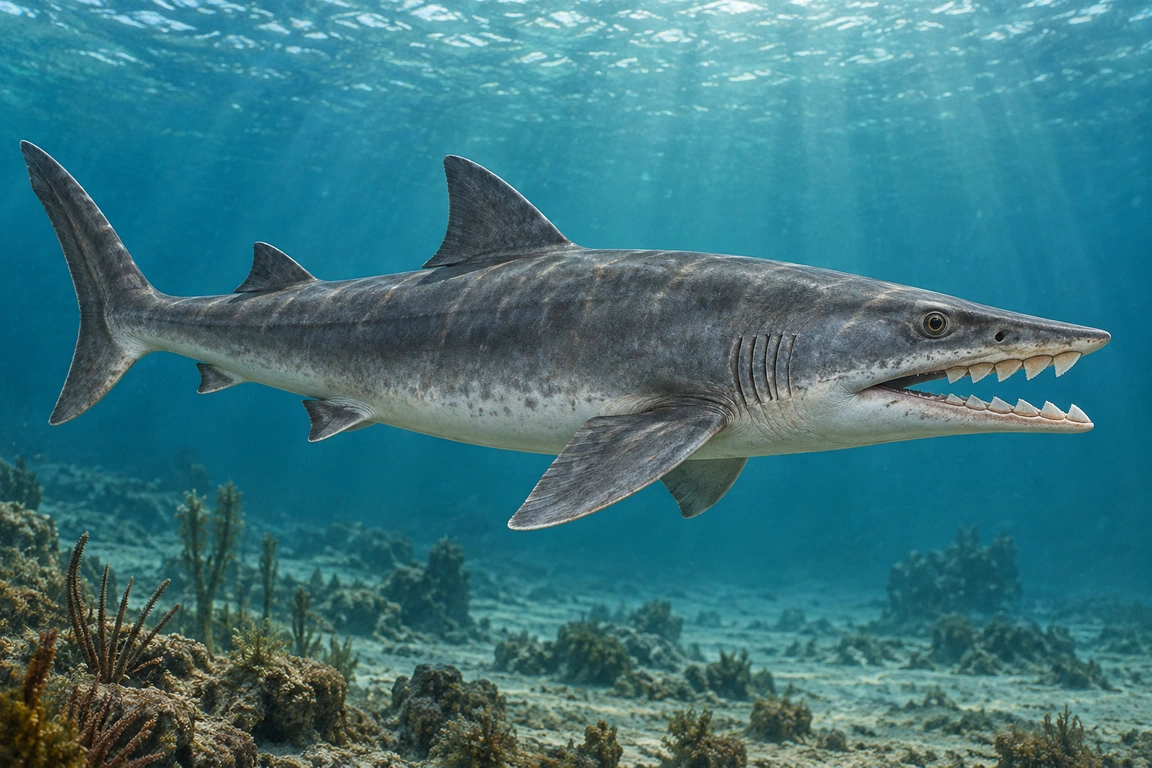
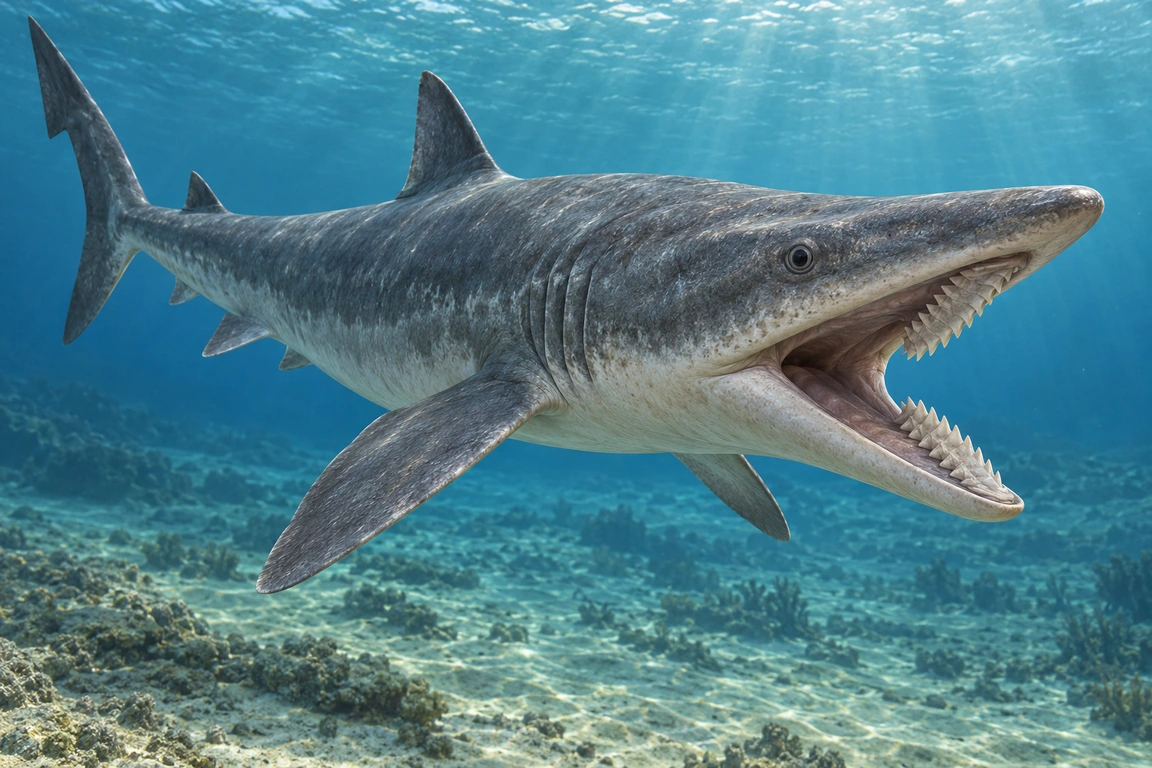
Fix approved crop framing and add median-blade Edestus candidate; build 1000007

diff --git a/app.js b/app.js
@@ -541,12 +541,20 @@
     });
     $('favorites-count').textContent = state.favorites.size;
   }
+  // Preserve the complete approved crops without letterboxing in 3:2 frames.
+  function imageFrameStyle(dino) {
+    const ratios = {
+      'pulmonoscorpius-kirktonensis': '1036 / 752',
+      'arthropleura-armata': '996 / 752'
+    };
+    return ratios[dino.id] ? '--picture-ratio: ' + ratios[dino.id] : '';
+  }
   function renderGallery() {
     const visible = filteredDinosaurs(dinosaurs, state);
     $('gallery').innerHTML = visible.map((dino, index) => {
       const text = copy(dino);
       return `<article class="dino-card">
-          <div class="card-picture"><img class="${atlasImageClass(dino)}" src="${escapeHtml(dino.image.src)}" alt="${escapeHtml(localized(dino.image.alt))}" width="1536" height="1024" ${index > 1 ? 'loading="lazy"' : ''} decoding="async"></div>
+          <div class="card-picture" style="${imageFrameStyle(dino)}"><img class="${atlasImageClass(dino)}" src="${escapeHtml(dino.image.src)}" alt="${escapeHtml(localized(dino.image.alt))}" width="1536" height="1024" ${index > 1 ? 'loading="lazy"' : ''} decoding="async"></div>
           <div class="card-body"><div class="card-title-row"><h3><a class="card-link" id="card-${dino.id}" href="#dinosaurus/${dino.id}">${escapeHtml(text.displayName)}</a></h3>${favoriteButton(dino, 'card-favorite')}</div><p class="scientific-name">${escapeHtml(dino.scientificName)}</p>
           <div class="card-meta"><span class="period-tag">${PERIODS[dino.period]}</span><span class="animal-kind">${CATEGORY_LABELS[categoryOf(dino)]}</span><span>${escapeHtml(text.ageLabel)}</span></div>
           <p class="card-location">${escapeHtml(text.location)}</p><p class="card-summary">${escapeHtml(text.cardSummary)}</p><span class="card-open">Prozkoumat →</span></div>
@@ -735,7 +743,7 @@
     const question = quiz.questions[quiz.index];
     const dino = byId.get(question.answerId);
     $('quiz-content').innerHTML = `<p class="quiz-progress-label">Otázka ${quiz.index + 1} z ${quiz.questions.length} · Bez časového limitu</p><progress class="quiz-progress" max="${quiz.questions.length}" value="${quiz.index}" aria-label="Dokončené otázky"></progress>
-      <div class="quiz-picture"><img data-image-viewer src="${escapeHtml(dino.image.src)}" width="1536" height="1024" alt="Pracovní rekonstrukce pravěkého zvířete. Vyber jeho jméno z možností pod obrázkem.">${imageZoomButton()}</div>
+      <div class="quiz-picture" style="${imageFrameStyle(dino)}"><img data-image-viewer src="${escapeHtml(dino.image.src)}" width="1536" height="1024" alt="Pracovní rekonstrukce pravěkého zvířete. Vyber jeho jméno z možností pod obrázkem.">${imageZoomButton()}</div>
       <button id="quiz-hint" type="button" class="button button-quiet hint-button" aria-expanded="${quiz.hintRevealed}" aria-controls="quiz-hint-text">${quiz.hintRevealed ? 'Skrýt nápovědu' : 'Potřebuji nápovědu'}</button><p id="quiz-hint-text" class="hint-text" ${quiz.hintRevealed ? '' : 'hidden'}>${escapeHtml(copy(dino).quizHint)}</p>
       <div class="quiz-answers" role="group" aria-label="Vyber jméno zvířete">${question.optionIds.map((id, index) => `<button type="button" class="quiz-answer" data-answer="${id}"><span class="answer-letter" aria-hidden="true">${String.fromCharCode(65 + index)}</span><span class="answer-name">${escapeHtml(copy(byId.get(id)).displayName)}</span></button>`).join('')}</div>
       <div class="quiz-feedback" id="quiz-feedback" role="status" aria-live="polite" aria-atomic="true"></div>

diff --git a/style.css b/style.css
@@ -111,7 +111,7 @@ main { min-height: 320px; }
 .card-link::after { content: ''; position: absolute; inset: 0; border-radius: 20px; }
 .card-link:focus-visible { outline: none; }
 .card-link:focus-visible::after { outline: 3px solid var(--accent); outline-offset: -5px; }
-.card-picture { aspect-ratio: 3 / 2; overflow: hidden; background: var(--image-bg); }
+.card-picture { aspect-ratio: var(--picture-ratio, 3 / 2); overflow: hidden; background: var(--image-bg); }
 .card-picture img { width: 100%; height: 100%; object-fit: contain; }
 .card-body { padding: 18px 19px 20px; }
 .card-title-row { display: flex; align-items: flex-start; justify-content: space-between; gap: 12px; margin-bottom: 4px; }
@@ -221,7 +221,7 @@ figcaption { font-size: .76rem; color: var(--muted); margin-top: 9px; }
 .quiz-progress::-webkit-progress-bar { background: var(--soft); }
 .quiz-progress::-webkit-progress-value { background: var(--accent); }
 .quiz-progress::-moz-progress-bar { background: var(--accent); }
-.quiz-picture { position: relative; aspect-ratio: 3 / 2; min-height: 0; border: 1px solid var(--line); border-radius: 20px; overflow: hidden; background: var(--image-bg); margin-bottom: 17px; }
+.quiz-picture { position: relative; aspect-ratio: var(--picture-ratio, 3 / 2); min-height: 0; border: 1px solid var(--line); border-radius: 20px; overflow: hidden; background: var(--image-bg); margin-bottom: 17px; }
 .quiz-picture img { position: absolute; inset: 0; display: block; width: 100%; height: 100%; min-height: 0; object-fit: contain; }
 .quiz-answers { display: grid; gap: 10px; }
 .quiz-answer { display: flex; align-items: center; gap: 12px; min-height: 56px; padding: 13px 16px; font-size: 1rem; text-align: left; background: var(--surface); color: var(--text); border: 1px solid var(--line); border-radius: 13px; }

diff --git a/docs/VISUAL-REFRESH-BATCH07.md b/docs/VISUAL-REFRESH-BATCH07.md
@@ -1,0 +1,17 @@
+# Dávka 07 — vyplnění prostoru a nový návrh Edesta
+
+27. října 2026. Pouze `feature/paleozoic-1.0.0`, základ `e543d88d7db0a8da48f57a943e6112bfc5d1e4af`, kandidát build **1000007**.
+
+## Zpětná vazba a řešení
+
+Uživatel upřesnil, že Pulmonoscorpius a Arthropleura se mu líbí; vadí jen vyplnění prostoru. Jejich ořezy z dávky 06 zůstaly po bajtech stejné, včetně podpisů, kreditů a licencí. Karty a kvíz měly pevný rám 3:2 s object-fit contain, takže užší ořezy vytvářely boční pruhy. Jen pro tyto dva druhy se nyní rám přizpůsobuje původnímu poměru 1036:752 a 996:752. Celý obraz je vidět, bez deformace, dalších ořezů či doplňování pozadí. Detail již používal přirozený poměr.
+
+Edestus z build 1000006 nebyl přijat jako dostatečně přesvědčivá rekonstrukce chrupu. Nový původní AI návrh používá šikmý pohled: zubní čepele jsou viditelně ve středu čelistí, boky tlamy bez souvislé běžné žraločí řady. Kontrola: celé tělo, protilehlé zubní čepele, bez spirály a velkých vnějších nůžek, souvislé prostředí. Nejde o nezávisle vědecky ověřený 3D model; detaily zakřivení a vzájemného zapadání zubů a všechny měkké tkáně jsou nejisté. Čeká hodnocení uživatele. Podklad: Tapanila et al. 2020, https://doi.org/10.1002/ar.24046.
+
+Před výměnou záloha Edesta i metadat v `docs/backups/visual-refresh-07/`; manifest chrání SHA-256 všech 112 obrazů a celé databáze. 111 ostatních obrazů a celá databáze včetně českých textů, předčítání a kreditů jsou beze změny. Nový manifest `docs/visual-refresh-07.json`.
+
+## Ověření
+
+Lokální `npm test` prošel. Testy UI doplněny o oba poměry v kartách na 320/360/412/900 px a oba obrazy v karbonském kvízu. Lokální stažení prohlížeče selhalo poškozeným archivem; výsledek UI a podepsané APK dosud nepotvrzený, ověřit v CI. Telefon neotestován.
+
+Sedm permských oprav stále zbývá: Dimetrodon, Inostrancevia, Scutosaurus, Mesosaurus, Diplocaulus, Helicoprion, Estemmenosuchus. Dávky maximálně 5 + 2, jednotlivá vizuální kontrola, před výměnou záloha.

diff --git a/PROJECT_STATUS.md b/PROJECT_STATUS.md
@@ -1,3 +1,5 @@
+> **27. 10. 2026 — dávka 07 / kandidát 1000007:** Oprava vyplnění karet a kvízu pro Pulmonoscorpia a Arthropleuru bez zásahu do obrazů. Nový návrh Edesta z šikmého pohledu. Lokální obsahové testy prošly; CI a APK zatím čekají. Uživatel zatím neschválil nový vzhled. Viz [předání dávky 07](docs/VISUAL-REFRESH-BATCH07.md). Pouze pracovní větev, neslučovat do main.
+
 > **Aktuálně 27. 10. 2026 — dávka 06 / 1000006:** Dva přesné ořezy (Pulmonoscorpius a Arthropleura) a nová rekonstrukce Edesta. 112 druhů zachováno. Zbývá sedm permských náhrad; finální CI testy databáze i rozhraní prošly. Podepsané APK 1000006 je hotové, původní certifikát a přesný obsah ověřeny v CI 40469603728. Edestus i zkouška aktualizace na telefonu čekají na hodnocení uživatele. [Předání](docs/VISUAL-REFRESH-BATCH06.md). Neslučovat do main. Starší údaje níže jsou historie.
 
 > **Aktuálně 27. 10. 2026 — dávka 05 / 1000005:** Vloženo pět karbonských rekonstrukcí, celkem 22 z 30 náhrad. Edestus odmítnut, zůstává původní; zbývá osm oprav (Edestus + perm 7). Lokální i GitHub testy prošly, podepsané APK 1000005 je hotové. Čeká hodnocení uživatele. [Předání](docs/VISUAL-REFRESH-BATCH05.md). Neslučovat do main. Starší údaje níže jsou historie.

diff --git a/docs/VISUAL-REFRESH-1.0.0.md b/docs/VISUAL-REFRESH-1.0.0.md
@@ -1,3 +1,5 @@
+> **27. 10. 2026 — dávka 07 / kandidát 1000007:** Oprava vyplnění karet a kvízu pro Pulmonoscorpia a Arthropleuru bez zásahu do obrazů. Nový návrh Edesta z šikmého pohledu. Lokální obsahové testy prošly; CI a APK zatím čekají. Uživatel zatím neschválil nový vzhled. Viz [předání dávky 07](VISUAL-REFRESH-BATCH07.md). Pouze pracovní větev, neslučovat do main.
+
 > **Aktuálně 27. 10. 2026 — dávka 06 / 1000006:** Dva přesné ořezy (Pulmonoscorpius a Arthropleura) a nová rekonstrukce Edesta. 112 druhů zachováno. Zbývá sedm permských náhrad; finální CI testy databáze i rozhraní prošly. Podepsané APK 1000006 je hotové, původní certifikát a přesný obsah ověřeny v CI 40469603728. Edestus i zkouška aktualizace na telefonu čekají na hodnocení uživatele. [Předání](VISUAL-REFRESH-BATCH06.md). Neslučovat do main. Starší údaje níže jsou historie.
 
 > **Aktuálně 27. 10. 2026 — dávka 05 / 1000005:** Vloženo pět karbonských rekonstrukcí, celkem 22 z 30 náhrad. Edestus odmítnut, zůstává původní; zbývá osm oprav (Edestus + perm 7). Lokální i GitHub testy prošly, podepsané APK 1000005 je hotové. Čeká hodnocení uživatele. [Předání](VISUAL-REFRESH-BATCH05.md). Neslučovat do main. Starší údaje níže jsou historie.

diff --git a/docs/image-prompts/visual-refresh-07.md b/docs/image-prompts/visual-refresh-07.md
@@ -1,0 +1,7 @@
+# Edestus — dávka 07
+
+Vestavěný Imagegen, nová původní scéna bez cizího obrazového vstupu.
+
+Realistic Edestus heinrichi in a Carboniferous blue-green sea, 3:2. Full animal in a three-quarter front-side view; visibly toothless lateral jaw margins; exactly one longitudinal median dental blade in each jaw. Upper crowns point down, lower up; flattened triangular serrated crowns with connected bases; gentle inward curvature, no giant external scissors and no spiral. Conservative body, complete fins and tail, no labels, borders or artificial background padding. Color and soft anatomy conjectural. Based on Tapanila et al. 2020.
+
+Zdroj: exec-8b7823d1-bd88-47a1-b270-54e611c02229.png, převedeno na 1152 × 768 WebP. Kontrola a limity v předání dávky 07; čeká uživatelské posouzení.
